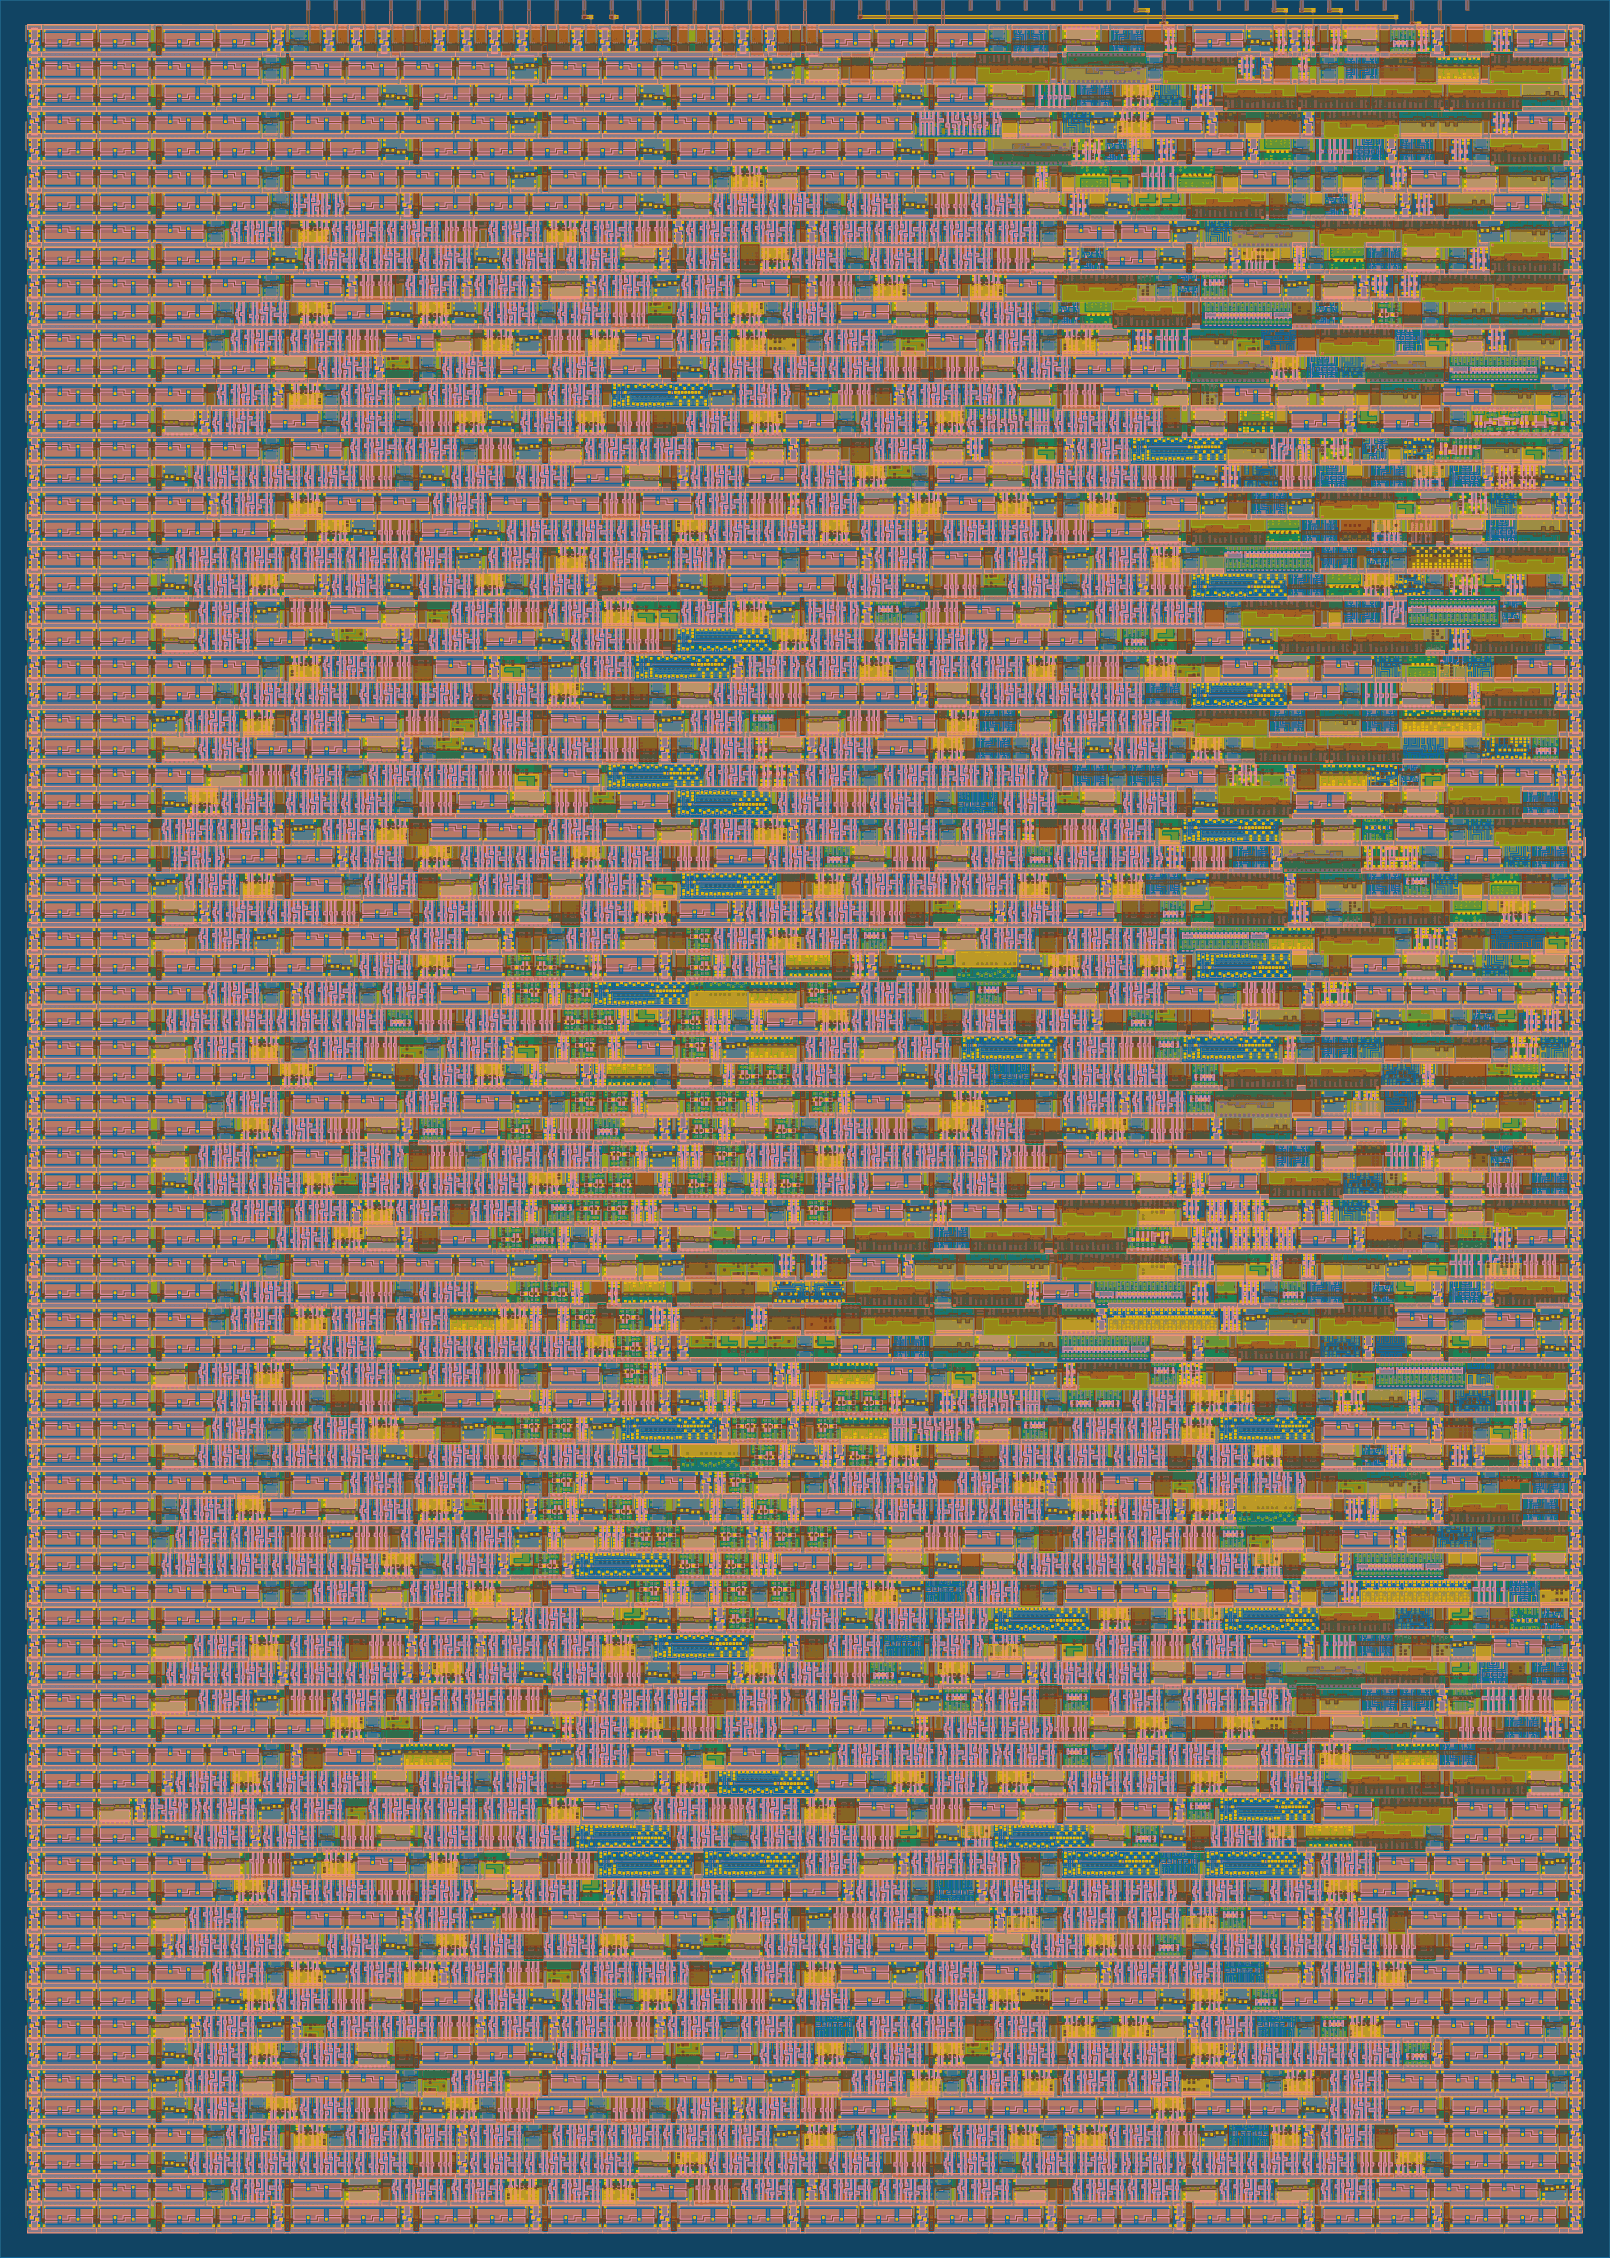
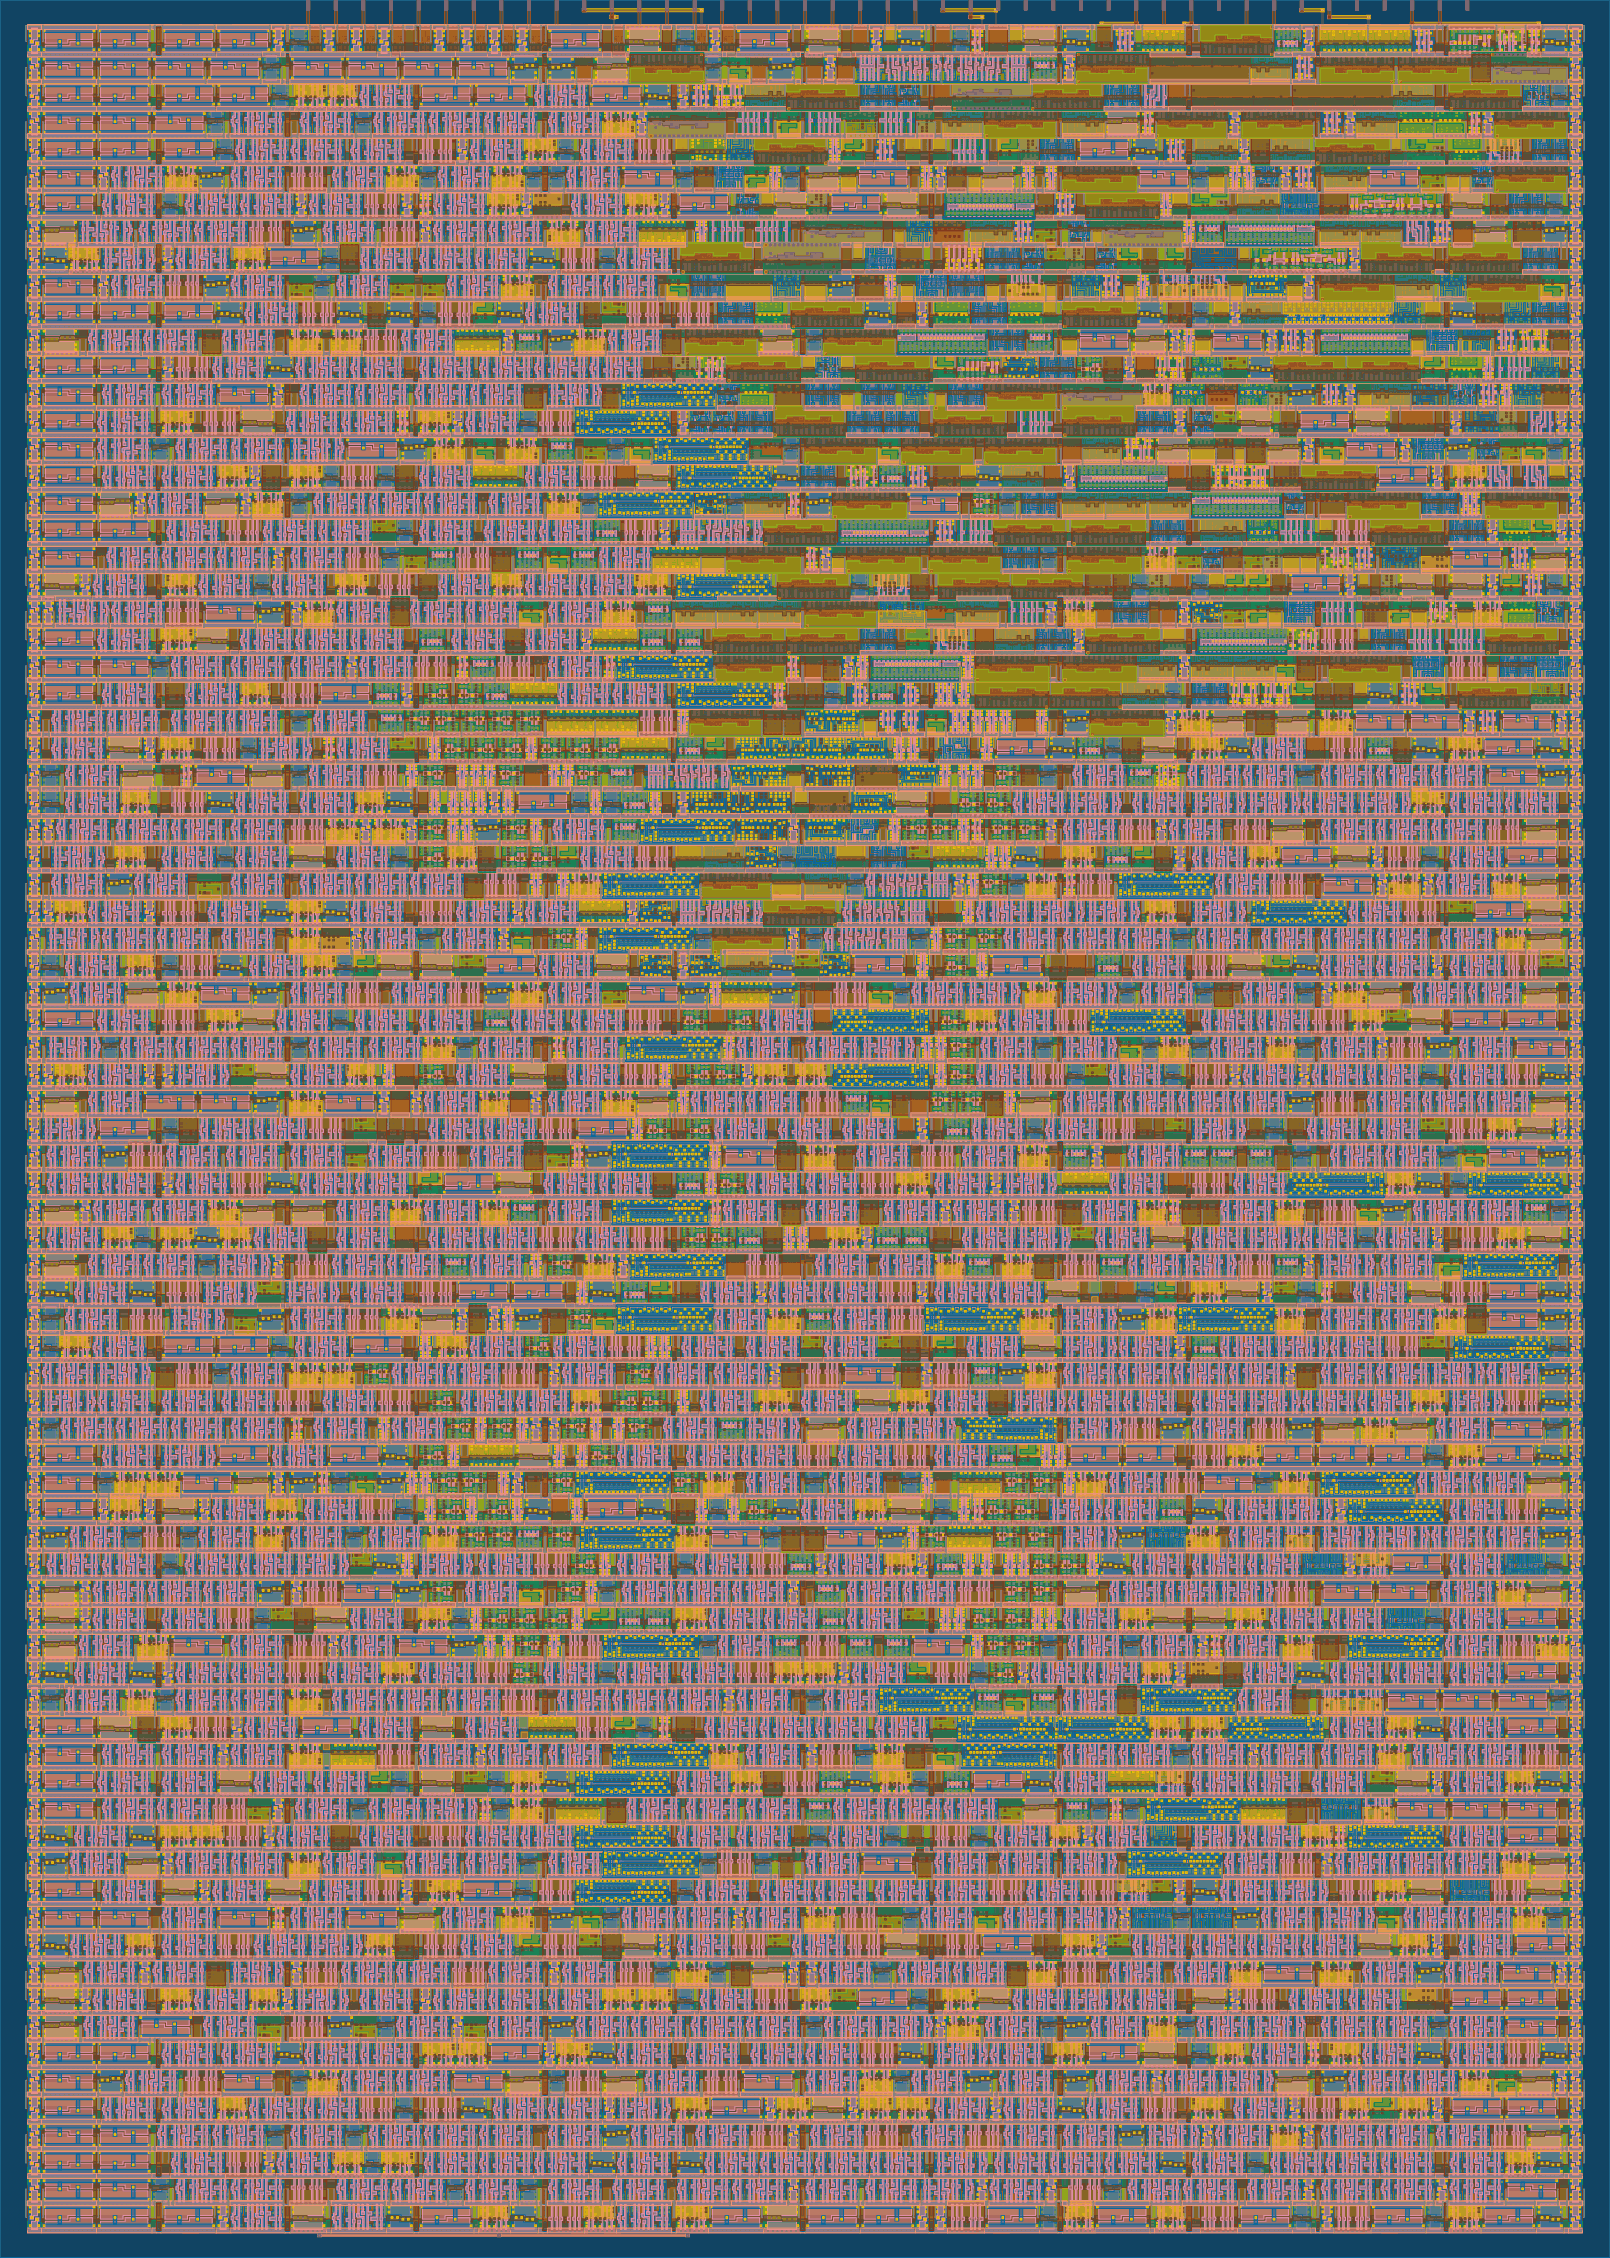
Increased storage to 96B

diff --git a/test/test.py b/test/test.py
@@ -14,7 +14,7 @@ from cocotb.triggers import ClockCycles, RisingEdge
 NUM_BITS_OF_INST_ADDR_LATCHED_IN = 8
 HISTORY_LENGTH = 7
 BIT_WIDTH_WEIGHTS = 8 # Must be 2, 4 or 8
-STORAGE_B = 64
+STORAGE_B = 96
 STORAGE_PER_PERCEPTRON = ((HISTORY_LENGTH + 1) * BIT_WIDTH_WEIGHTS)
 NUM_PERCEPTRONS = (8 * STORAGE_B / STORAGE_PER_PERCEPTRON)
 
@@ -83,7 +83,7 @@ def twos_complement_to_int(binary_str, width):
 
 async def check_weights(dut, starting_addr, weights):
     initial_wr_en = dut.DEBUG_wr_en.value
-    initial_mem_addr = dut.branch_pred.mem_addr.value    
+    initial_mem_addr = dut.branch_pred.mem_addr.value
     initial_uio_in = dut.branch_pred.latch_mem.uio_in.value
     await RisingEdge(dut.clk)
 
@@ -93,7 +93,7 @@ async def check_weights(dut, starting_addr, weights):
         await ClockCycles(dut.clk, 2)
         value = str(dut.branch_pred.mem_data_out.value)
         assert twos_complement_to_int(value, len(value)) == weights[i]
-    
+
     dut.DEBUG_wr_en.value = initial_wr_en
     dut.branch_pred.mem_addr.value = initial_mem_addr
     dut.branch_pred.latch_mem.uio_in.value = initial_uio_in
@@ -134,6 +134,10 @@ async def test_send_data(dut):
 
 @cocotb.test(skip=False)
 async def test_perceptron_index(dut):
+    def hash_fcn(addr):
+        hash_val = ((addr >> 2) & 0xFF) ^ ((addr >> 4) & 0xFF)
+        return hash_val & int(NUM_PERCEPTRONS - 1)
+
     NUM_TESTS = 100
     random.seed(42)
 
@@ -144,7 +148,7 @@ async def test_perceptron_index(dut):
         direction = random.randint(0, 1)
         addr = random.randint(0, 2**NUM_BITS_OF_INST_ADDR_LATCHED_IN - 1)
         await send_data(dut, addr, direction)
-        assert int(f"{dut.DEBUG_perceptron_index.value}", base=2) == ((addr >> 2) % NUM_PERCEPTRONS)
+        assert int(f"{dut.DEBUG_perceptron_index.value}", base=2) == hash_fcn(addr)
 
 @cocotb.test(skip=GATES_MODE)
 async def test_history_buffer_internal(dut):
@@ -167,7 +171,7 @@ async def test_history_buffer_internal(dut):
             await RisingEdge(dut.clk)
         await RisingEdge(dut.clk)
         assert dut.branch_pred.history_buffer.value == int(binary_str, base=2) # Check history at every inference
-    
+
 @cocotb.test(skip=False)
 async def test_history_buffer_request(dut):
     NUM_TESTS = 100
@@ -188,7 +192,7 @@ async def test_history_buffer_request(dut):
         while (dut.training_done.value != 1):
             await RisingEdge(dut.clk)
         await RisingEdge(dut.clk)
-        
+
         dut.history_buffer_request.value = 1
         await RisingEdge(dut.clk)
         dut.history_buffer_request.value = 0
@@ -237,7 +241,7 @@ async def test_perceptron_all_registers(dut):
             # Check the weights (Perform with and without checking the weights)
             if (not GATES_MODE): # Internal signals unavailable in gate-level simulation
                 await check_weights(dut, result['start_addr'], result['weights'])
-            
+
             cnt += 1
             if (MAX_NUM_TESTS != -1) and (cnt >= MAX_NUM_TESTS):
                 break
@@ -312,7 +316,6 @@ async def test_data_ignored_while_resetting(dut):
     await reset(dut, wait_for_mem_reset_done=False)
 
     await send_data(dut, addr=0xFF, direction=1)
-    assert dut.DEBUG_state_rst_memory.value == 1 # In reset memory state
     await RisingEdge(dut.clk)
     assert dut.DEBUG_state_pred.value == 0 # Did not transition to computing state
     while (dut.mem_reset_done.value != 1):
@@ -338,7 +341,7 @@ async def test_new_data_after_mem_rst(dut):
 async def test_back_to_back_inference(dut):
     start_clock(dut)
     await reset(dut, wait_for_mem_reset_done=True)
-    
+
     await send_data(dut, addr=0xFF, direction=1)
     while (dut.training_done.value != 1): # Wait for inference to complete
         await RisingEdge(dut.clk)
@@ -347,4 +350,3 @@ async def test_back_to_back_inference(dut):
     await send_data(dut, addr=0xFF, direction=1)
     await RisingEdge(dut.clk)
     assert dut.DEBUG_state_pred.value == 1 # In computing state
-

diff --git a/func_sim/include/func_sim.hpp b/func_sim/include/func_sim.hpp
@@ -14,14 +14,14 @@
 #define B_TYPE_OPCODE 0b1100011
 
 // Branch predictor
-#define HISTORY_LENGTH 7 // Must be power of 2 - 1
-#define TRAINING_THRESHOLD 15
-#define BIT_WIDTH_WEIGHTS 8 // Must be 2, 4 or 8 so that we can store it in one byte
+#define HISTORY_LENGTH (7) // Must be power of 2 - 1
+#define TRAINING_THRESHOLD (15)
+#define BIT_WIDTH_WEIGHTS (8) // Must be 2, 4 or 8 so that we can store it in one byte
 #define BIT_WIDTH_Y (int)ceil(log2(HISTORY_LENGTH * (1 << (BIT_WIDTH_WEIGHTS-1))))
 
-#define STORAGE_B 64
+#define STORAGE_B (96)
 #define STORAGE_PER_PERCEPTRON ((HISTORY_LENGTH + 1) * BIT_WIDTH_WEIGHTS)
-#define NUM_PERCEPTRONS (int)floor(8 * STORAGE_B / STORAGE_PER_PERCEPTRON) 
+#define NUM_PERCEPTRONS (int)(floor((8 * STORAGE_B) / STORAGE_PER_PERCEPTRON))
 
 // Utilities
 #define Y_MAX                    ((1 << (BIT_WIDTH_Y - 1)) - 1)

diff --git a/func_sim/src/func_sim.cpp b/func_sim/src/func_sim.cpp
@@ -81,7 +81,9 @@ BranchPredictor::BranchPredictor() : perceptrons(NUM_PERCEPTRONS), global_histor
 }
 
 uint32_t BranchPredictor::branch_address_hash(uint32_t branch_address) {
-    return (branch_address >> 2) % NUM_PERCEPTRONS;
+    uint32_t hash = ((branch_address >> 2) & 0xFF) ^
+                    ((branch_address >> 4) & 0xFF);
+    return hash & (NUM_PERCEPTRONS - 1);
 }
 
 void BranchPredictor::predict(uint32_t branch_address, bool* pred, int* y_sum, int* hash_index) {
@@ -119,6 +121,7 @@ int main(int argc, char** argv) {
     }
 
     cout << "NUM_PERCEPTRONS: " << NUM_PERCEPTRONS << endl;
+    cout << "STORAGE_B: " << STORAGE_B << endl;
     cout << "STORAGE_PER_PERCEPTRON: " << STORAGE_PER_PERCEPTRON << endl;
     cout << "WEIGHT_MAX: " << WEIGHT_MAX << endl;
 

diff --git a/README.md b/README.md
@@ -6,11 +6,11 @@ This project implements a perceptron-based branch predictor on TinyTapeout. Docu
 Some details:
 * 1x2 tile (about 160um x 225 um)
 * 130nm SkyWater node
-* 64B of memory for perceptron weights (8b each)
-* History length: 7
-* Number of perceptrons: 8
-* ~82% accuracy on a small reference program (`func_sim/reference.c`)
-* Implements automatic memory reset guarantee a clean state
+* 96B of memory for perceptron weights (8b each)
+* History length: 8
+* Number of perceptrons: 12
+* ~87% accuracy on a small reference program (`func_sim/reference.c`)
+* Implements automatic memory reset to guarantee a clean state
 
 ## What is Tiny Tapeout?
 Tiny Tapeout is an educational project that aims to make it easier and cheaper than ever to get your digital and analog designs manufactured on a real chip.
